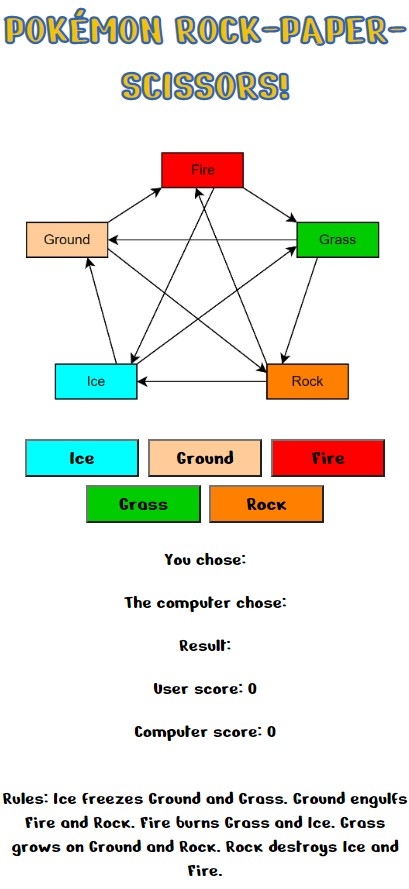
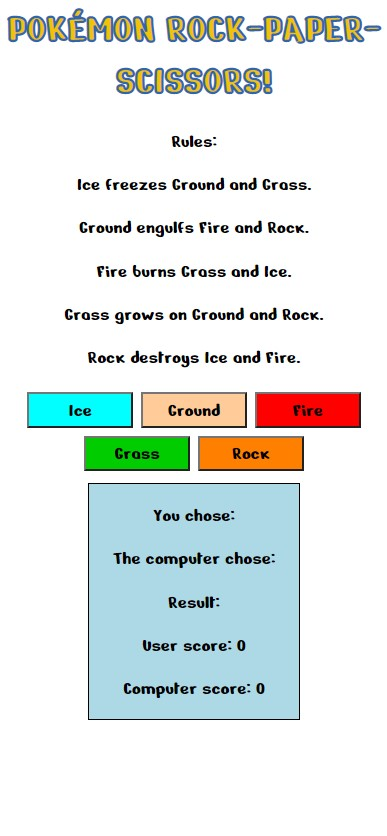
Update colours to hex colours for result-area and update screenshots in readme.md

diff --git a/assets/css/style.css b/assets/css/style.css
@@ -105,11 +105,12 @@ p {
     width: 90%;
     padding-left: 5%;
     padding-right: 5%;
+    margin-bottom: 3%;
 }
 
 .result-area {
-    background-color: lightblue;
-    border: 1px solid black;
+    background-color: #add9e6;
+    border: 1px solid #000000;
     width: 50%;
     margin: auto;
 }

diff --git a/index.html b/index.html
@@ -49,6 +49,7 @@
                 <p class="scores">User score: <span id="user-score">0</span></p>
                 <p class="scores">Computer score: <span id="computer-score">0</span></p>
             </div>
+        </div>
     </div>
     <script src="assets/js/script.js"></script>
 </body>

diff --git a/README.md b/README.md
@@ -78,7 +78,7 @@ This website is made to display and run the traditional childhood game of rock-p
 
 ### Test Cases:
 
-- **Main Page:** Upon opening the website the user will see the main and only page, starting with heading in the center. As you can see everything on the page is responsive to the screen size. All the text, the buttons and the image reduce in size as the screen size gets smaller thanks to the use of media queries and flexbox in the CSS file.
+- **Main Page:** Upon opening the website the user will see the main and only page. Everything on the page is responsive to the screen size and all the content is centered.
 
 Desktop size example:
 
@@ -86,29 +86,77 @@ Desktop size example:
 
 Tablet size example:
 
-![Screenshot of website home page on iPad](./docs/screenshots/maintablet.jpg)
+![Screenshot of website home page on a tablet screen size](./docs/screenshots/maintablet.jpg)
 
 Phone size example:
 
-![Screenshot of website home page on iPhone XR](./docs/screenshots/mainphone.jpg)
+![Screenshot of website home page on a phone screen size](./docs/screenshots/mainphone.jpg)
+
+- **The Header:** The header is responsive to the screen size and fits on to more than one line where needed.
+
+Desktop size example:
+
+![Screenshot of the header on desktop](./docs/screenshots/headerdesktop.jpg)
+
+Tablet size example:
+
+![Screenshot of the header on a tablet screen size](./docs/screenshots/headertablet.jpg)
+
+Phone size example:
+
+![Screenshot of the header on a phone screen size](./docs/screenshots/headerphone.jpg)
+
+- **The Rules:** The user should be able to see the game rules written here for them to follow.
+
+Desktop size example:
+
+![Screenshot of the instructions on desktop](./docs/screenshots/instructionsdesktop.jpg)
+
+Tablet size example:
+
+![Screenshot of the instructions on a tablet screen size](./docs/screenshots/instructionstablet.jpg)
+
+Phone size example:
+
+![Screenshot of the instructions on a phone screen size](./docs/screenshots/instructionsphone.jpg)
 
 - **The Choice Area:** This is the area that contains the buttons. The user will see that the buttons will wrap to the line below when the screen size gets too small for them to fit clearly on one line. (At 686px width or below.)
 
+Desktop size example:
+
 ![Example of the buttons normally](./docs/screenshots/buttons.jpg)
 
-![Example of the buttons on a screen size of 686px wide or lower](./docs/screenshots/buttonsphone.jpg)
+Tablet size example:
+
+![Example of the buttons on a tablet screen size](./docs/screenshots/buttonstablet.jpg)
+
+Phone size example:
+
+![Example of the buttons on a phone screen size](./docs/screenshots/buttonsphone.jpg)
 
 - They also have a hover pseudo class. The user should see that they change to a black background with white text when hovered over.
 
 ![Image shows the button colours with a mouse hovering over it](./docs/screenshots/buttonsblack.jpg)
 
-- **The Result Area:** Impotantly both the choices and the scores are blank and set to 0 when the user first opens the page. The user can also click on the heading to refresh the page at any time to reset them.
+- **The Result Area:** The user will be able to see the results of the game here. The box is responsive to the screen size.
+
+Desktop size example:
+
+![Example of results area on desktop screen size](./docs/screenshots/resultsdesktop.jpg)
+
+Tablet size example:
+
+![Example of results area on a tablet screen size](./docs/screenshots/resultstablet.jpg)
+
+Phone size example:
+
+![Example of results area on a phone screen size](./docs/screenshots/resultsphone.jpg)
+
+- Impotantly both the choices and the scores are blank and set to 0 when the user first opens the page. The user can also click on the heading to refresh the page which will reset them.
 
 ![Screenshot showing the scores set to 0 under the image](./docs/screenshots/blank.jpg)
 
-- **Results and Scores:** When the user clicks on a button, its 'data-type' or the text within the button should show up after 'You chose:' to show the user what they chose. The computers random choice will then be visible to the user after the 'Computer chose:' text. The text following 'Result:' will also change depending on the outcome, so that the user can see it, and the score will then change acordingly for the user to see.
-
-Examples:
+- **Game Testing:** Before styling this area I tested every single outcome of the game to make sure it worked as expected. I did this by clicking on each button until I got each possible outcome, and checking they were correct. I also made sure that the score was going up appropriately. Here are a few test examples:
 
 The user picks ice and computer picks fire. The user looses, the computer gains a point.
 
@@ -136,13 +184,15 @@ Example of the score increasing as the game is played multiple times:
 
 ![The W3C Validator showing no errors in my CSS](./docs/screenshots/cssval.jpg)
 
-- I have tested my JavaScript using [JSHint](https://jshint.com/) and there is one warning but no errors. The variable 'result' that is undefined is on purpose, so that it resets to blank every time the page is refreshed or opened.
+- I have tested my JavaScript using [JSHint](https://jshint.com/) and there is no errors. The variable 'result' that is undefined is on purpose, so that it resets to blank every time the page is refreshed or opened.
 
 ![The JSHint validator showing no errors in my JavaScript](./docs/screenshots/jshint2.jpg)
 
 - I have tested my site using the devtools Lighthouse feature. The score is very good with a minimum of 90% in each field.
 
 ![The lighthouse report showing every field is green](./docs/screenshots/lh1.jpg)
+
+<!-- ADD LIGHTHOUSE IMAGE -->
 
 ---
 
